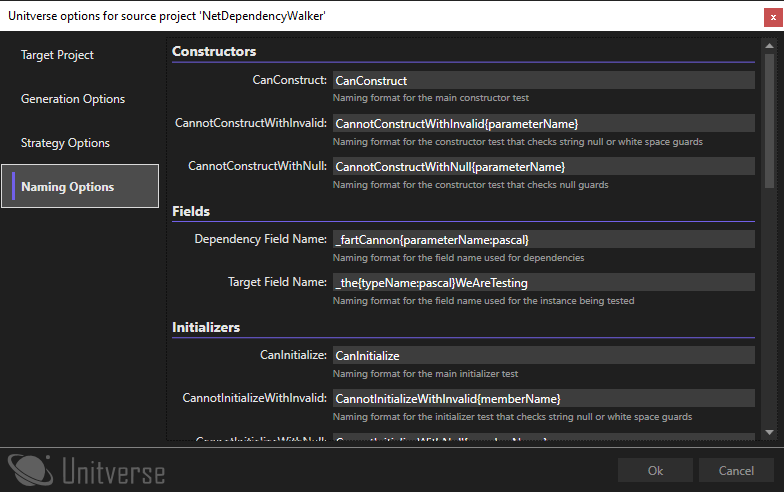
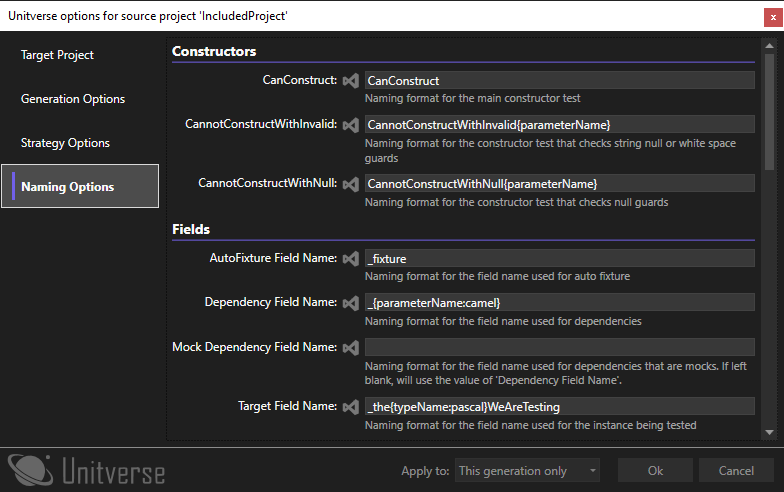
Documentation updates, very slight UI tweaks (#212)

diff --git a/src/Unitverse/Views/SharedResources.xaml b/src/Unitverse/Views/SharedResources.xaml
@@ -90,7 +90,7 @@
                         Height="16"
                         Data="M12 20C16.4 20 20 16.4 20 12S16.4 4 12 4 4 7.6 4 12 7.6 20 12 20M12 2C17.5 2 22 6.5 22 12S17.5 22 12 22C6.5 22 2 17.5 2 12C2 6.5 6.5 2 12 2M12.5 7V13H7V11.5H11V7H12.5Z"
                         Fill="{DynamicResource {x:Static platformUI:EnvironmentColors.ToolWindowTextBrushKey}}"
-                        Opacity="0.4"
+                        Opacity="0.8"
                         Stretch="Uniform" />
                 </Border>
             </Grid>

diff --git a/src/Unitverse/Views/GenerationDialog.xaml b/src/Unitverse/Views/GenerationDialog.xaml
@@ -119,6 +119,7 @@
                         <Grid.ColumnDefinitions>
                             <ColumnDefinition Width="*" />
                             <ColumnDefinition Width="Auto" />
+                            <ColumnDefinition Width="*" />
                         </Grid.ColumnDefinitions>
                         <Path
                             Grid.Column="1"

diff --git a/docs/configuration.md b/docs/configuration.md
@@ -10,14 +10,32 @@ It is worth noting that these options apply in slightly different scopes.
 
 * Options configured in the Visual Studio Options dialog apply to all solutions
 * Options configured in a `.unitTestGeneratorConfig` file apply to all solutions at the same level or a child level on disk
+* Options that are applied to the session using the per-generation user interface persist until you close Visual Studio.
 * Options that are detected from the selected target project apply to that individual generation (if 'Detect target frameworks' is set to true).
-* Options configured in the per-generation UI only apply to that individual generation (with the exception of the selection of target project, which persists until you close Visual Studio).
-
-If you are not sure how a particular option has been configured, you can open up the per-generation UI, which has a small icon next to each option which you can hover to find out where a configuration value came from. Also, options that are detected from a target project that differ from the options loaded from Visual Studio / config files will cause a message to be logged to the Output window in Visual Studio.
 
 You can create a `.unitTestGeneratorConfig` file which contains the options you currently have configured in Visual Studio by going to the 'Export' options page. For more information on this, see the 'Setting options per-project' section below.
 
 The per-generation user interace is, by default, set to show only when a target project can not be automatically matched. You can change this by going to Tools->Options->Unitverse or by setting the relevant option in a `.unitTestGeneratorConfig` file, or by holding the Control key while selecting any 'Generate tests...' menu item. This user interface also allows you to override the target project selection, if you want to generate tests in a different project or because your naming format isn't consistent. To see what the user interface looks like, please see the 'Per-generation user interface' section below.
+
+### Options layers
+
+The options are also layered - configuration files and session settings are not a complete set of settings - just what is configured in the file or dialog. The layers are loaded in order:
+
+1. Visual studio settings
+2. Configuration files
+3. Session settings
+4. Framework auto-detection
+
+If you are not sure how a particular option has been configured, you can open up the per-generation UI, which has a small icon next to each option which you can hover to find out where a configuration value came from. Also, options that are detected from a target project that differ from the options loaded from Visual Studio / config files will cause a message to be logged to the Output window in Visual Studio.
+
+The source icons are as follows:
+
+![Options icons](assets/Options-Icons.png)
+
+* The file icon is for settings loaded from a configuration file, and hovering the file icon with your mouse will tell you which configuration file the option was loaded from.
+* The clock icon is for settings that were previously selected in the per-generation UI and 'This session' was selected next to 'Apply to'.
+* The Visual Studio icon is for settings configured in the Options dialog.
+* The magnifying glass icon is for settings that have been automatically detected from the selected target project.
 
 ## Generation Options ⚙
 
@@ -35,6 +53,18 @@ The per-generation user interace is, by default, set to show only when a target 
 The default for project naming is `{0}.Tests`. For example, a project named `MyProject` would be associated with a test project called `MyProject.Tests`.
 
 You can specify multiple patterns in the 'Project naming convention' option by separating them with a semicolon. So for example, if the naming pattern was set to `{0}.Tests;{0}.UnitTests;{0}.Cheese` then it would first look for `MyProject.Tests`, then `MyProject.UnitTests` and finally `MyProject.Cheese`.
+
+#### Manual Project Mapping
+
+You can override the default naming behaviour by going to Tools->Options->Unitverse->Project Mappings and entering the source and target project. Alternatively, you can set these in a `.unitTestGeneratorConfig` file with a `[Mappings]` section:
+
+```
+[Mappings]
+SourceProject=TargetProject
+OtherSourceProject=OtherTargetProject
+```
+
+In this scenario, tests for types in the SourceProject project would be created in the TargetProject project. Note that when adding mappings in `.unitTestGeneratorConfig` files, the changes are additive. So any extra mappings defined in configuration files defined closer to the project will add to the list of mappings already defined, not replace them.
 
 ### Default Class/File Naming
 
@@ -110,7 +140,12 @@ You can also use a UI to modify a `.unitTestGeneratorConfig` file by double-clic
 
 ## Per-generation user interface 🖥
 
-If you are using the per-generation user interface (either because you have configured it in Tools->Options->Unitverse or because you are holding Control while selecting a 'Generate tests...' menu item), then a dialog is shown before each generation. The dialog is organised into four tabs as shown in the following images:
+If you are using the per-generation user interface (either because you have configured it in Tools->Options->Unitverse or because you are holding Control while selecting a 'Generate tests...' menu item), then a dialog is shown before each generation. The dialog is organised into four tabs as shown in the below images. At the bottom is a drop-down labeled 'Apply to:' - this allows you to save the options that you have selected. The options are:
+
+* This generation only - the options selected are not saved, and apply to the current generation only
+* This session - the options are persisted until Visual Studio closes.
+* Configuration file - you are able to choose a folder in which to save a `.unitTestGeneratorConfig`. Note that this will overwrite any existing file.
+* Visual studio settings - the options will be persisted to the Visual Studio options
 
 Setting the target project in which tests will be generated:
 
